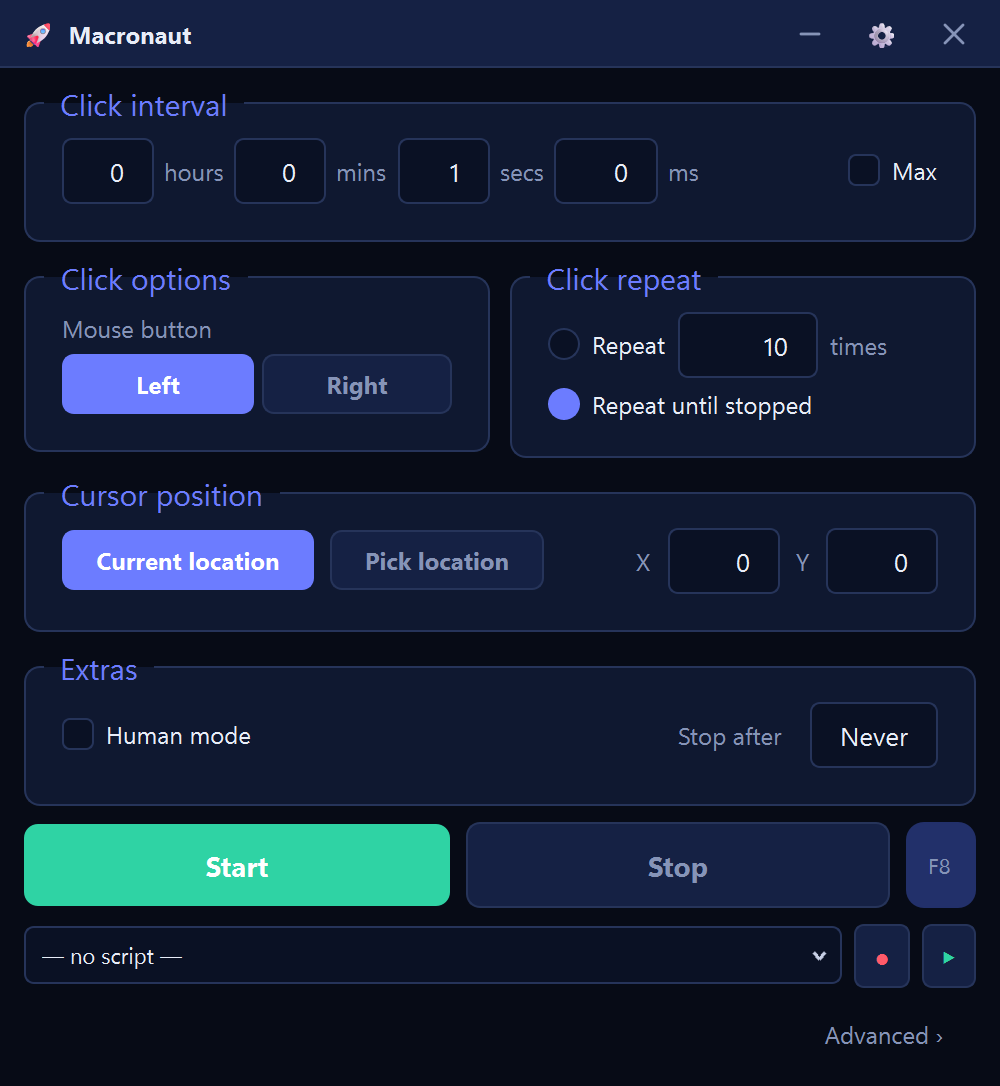
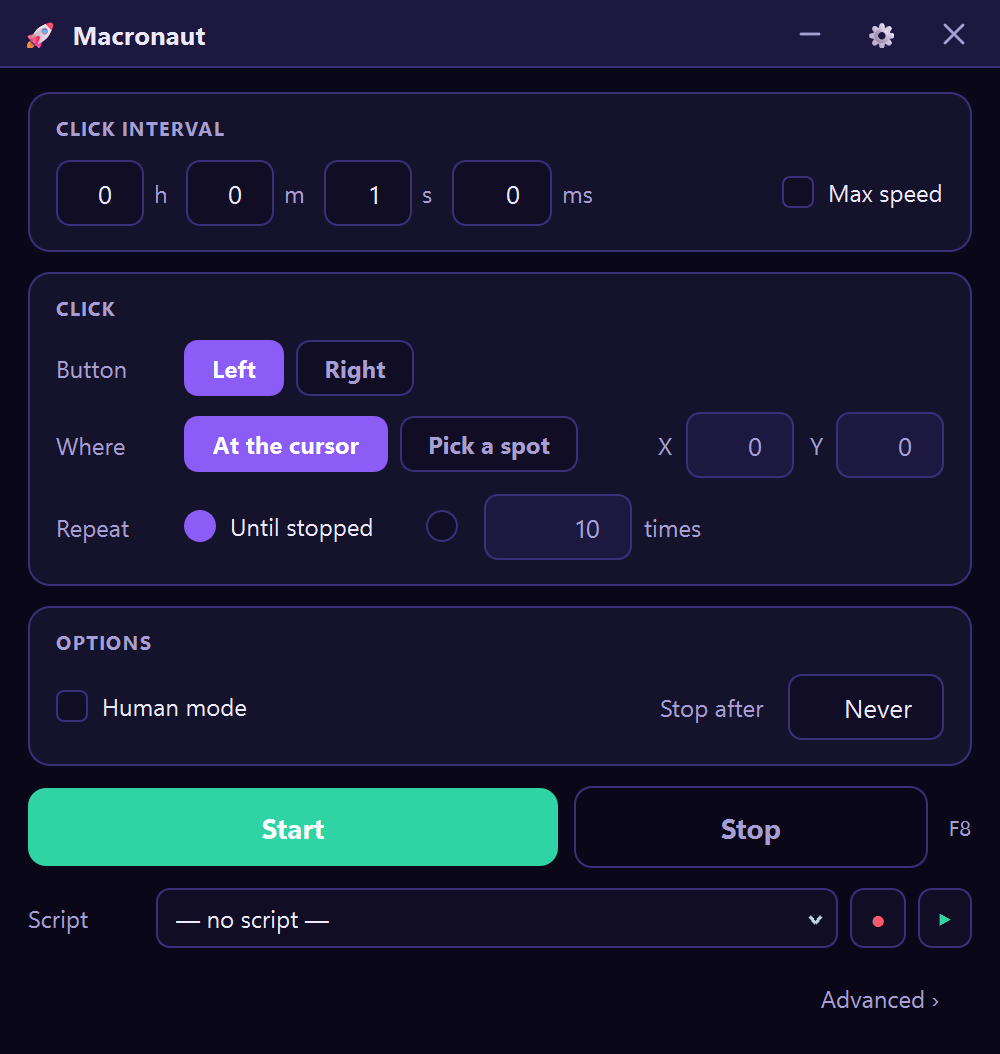
site: rebuild for 2.3.2

diff --git a/index.html b/index.html
@@ -6,7 +6,7 @@
 <title>Macronaut — Auto Clicker &amp; Macro Recorder for Windows</title>
 <meta name="description" content="Free auto clicker and visual macro recorder for Windows 10 and 11. Record clicks and keystrokes, or build a flow that watches the screen and decides what to do. The AutoHotkey alternative without the code.">
 <link rel="canonical" href="https://gtjevptje.github.io/Macronaut/">
-<meta name="theme-color" content="#070b16">
+<meta name="theme-color" content="#0a0818">
 
 <meta property="og:type" content="website">
 <meta property="og:site_name" content="Macronaut">
@@ -23,7 +23,7 @@
   "name": "Macronaut",
   "applicationCategory": "UtilitiesApplication",
   "operatingSystem": "Windows 10, Windows 11",
-  "softwareVersion": "2.3.1",
+  "softwareVersion": "2.3.2",
   "url": "https://gtjevptje.github.io/Macronaut/",
   "downloadUrl": "https://github.com/gtjevptje/Macronaut/releases/latest/download/Macronaut.exe",
   "description": "Auto clicker and visual macro recorder for Windows. Records clicks and keystrokes into an editable flow, and can watch the screen to decide what to do next.",
@@ -43,9 +43,9 @@
 
 <style>
 :root{
-  --bg:#070b16; --panel:#0f1830; --panel2:#152144; --hover:#1c2950;
-  --border:#26345a; --text:#e8edf8; --muted:#8694b8;
-  --accent:#6c7cff; --accent-hover:#8a96ff; --green:#2fd3a4; --amber:#f5b14b;
+  --bg:#0a0818; --panel:#15122c; --panel2:#1d1840; --hover:#272052;
+  --border:#3a2f7a; --text:#ece9fb; --muted:#a79fd4;
+  --accent:#8b5cf6; --accent-hover:#a279f8; --green:#2fd3a4; --amber:#f5b14b;
   --max:1080px;
 }
 *{box-sizing:border-box}
@@ -60,13 +60,13 @@ body{
 body::before{
   content:""; position:fixed; inset:0; pointer-events:none; z-index:0; opacity:.5;
   background:
-    radial-gradient(1px 1px at 12% 18%, #c9d6ff 50%, transparent 51%),
-    radial-gradient(1px 1px at 68% 9%,  #c9d6ff 50%, transparent 51%),
-    radial-gradient(1px 1px at 34% 42%, #9fb2e8 50%, transparent 51%),
-    radial-gradient(1px 1px at 88% 33%, #c9d6ff 50%, transparent 51%),
-    radial-gradient(1px 1px at 52% 66%, #8fa3dd 50%, transparent 51%),
-    radial-gradient(1px 1px at 22% 78%, #c9d6ff 50%, transparent 51%),
-    radial-gradient(1px 1px at 78% 88%, #9fb2e8 50%, transparent 51%);
+    radial-gradient(1px 1px at 12% 18%, #ded6ff 50%, transparent 51%),
+    radial-gradient(1px 1px at 68% 9%,  #ded6ff 50%, transparent 51%),
+    radial-gradient(1px 1px at 34% 42%, #bfa9f0 50%, transparent 51%),
+    radial-gradient(1px 1px at 88% 33%, #ded6ff 50%, transparent 51%),
+    radial-gradient(1px 1px at 52% 66%, #a98fe0 50%, transparent 51%),
+    radial-gradient(1px 1px at 22% 78%, #ded6ff 50%, transparent 51%),
+    radial-gradient(1px 1px at 78% 88%, #bfa9f0 50%, transparent 51%);
 }
 main,header,footer{position:relative; z-index:1}
 .wrap{max-width:var(--max); margin:0 auto; padding:0 24px}
@@ -81,7 +81,7 @@ p{margin:0 0 1em}
 .small{font-size:14px}
 
 /* ── Nav ─────────────────────────────────────────────────────────── */
-header{border-bottom:1px solid var(--border); background:rgba(7,11,22,.85);
+header{border-bottom:1px solid var(--border); background:rgba(10,8,24,.85);
   backdrop-filter:blur(10px); position:sticky; top:0; z-index:20}
 .nav{display:flex; align-items:center; gap:24px; height:62px}
 .brand{font-weight:800; font-size:18px; letter-spacing:-.01em; color:var(--text)}
@@ -177,7 +177,7 @@ section > .wrap > h2{text-align:center}
 .plan{background:var(--panel); border:1px solid var(--border); border-radius:18px;
   padding:30px}
 .plan.best{border-color:var(--accent); box-shadow:0 0 0 1px var(--accent),
-  0 20px 60px rgba(108,124,255,.14)}
+  0 20px 60px rgba(139,92,246,.16)}
 .plan .name{font-size:14px; font-weight:800; letter-spacing:.08em;
   text-transform:uppercase; color:var(--muted)}
 .plan.best .name{color:var(--accent-hover)}
@@ -307,7 +307,7 @@ footer .row nav{margin-left:auto; display:flex; gap:20px; flex-wrap:wrap}
           the window it is clicking, Advanced as big as you like.</p>
         </div>
         <img class="shot shot-inline" src="assets/basic.png"
-             width="1000" height="1086" loading="lazy"
+             width="1000" height="1054" loading="lazy"
              alt="Macronaut's Basic face: click interval in hours, minutes,
                   seconds and milliseconds, a left/right mouse button choice,
                   repeat a set number of times or until stopped, cursor position,
@@ -433,7 +433,7 @@ footer .row nav{margin-left:auto; display:flex; gap:20px; flex-wrap:wrap}
 
 <footer>
   <div class="wrap row">
-    <div>Macronaut 2.3.1 · © 2026 Gerben van Poucke ·
+    <div>Macronaut 2.3.2 · © 2026 Gerben van Poucke ·
       <a href="mailto:gerbenvanpoucke0@gmail.com">gerbenvanpoucke0@gmail.com</a></div>
     <nav>
       <a href="https://github.com/gtjevptje/Macronaut">GitHub</a>

diff --git a/autohotkey-alternative.html b/autohotkey-alternative.html
@@ -6,7 +6,7 @@
 <title>An AutoHotkey alternative you don't have to write code in — Macronaut</title>
 <meta name="description" content="AutoHotkey is a scripting language. Macronaut does the same job by recording what you do, or by letting you draw the flow. An honest comparison, including what AutoHotkey still does better.">
 <link rel="canonical" href="https://gtjevptje.github.io/Macronaut/autohotkey-alternative.html">
-<meta name="theme-color" content="#070b16">
+<meta name="theme-color" content="#0a0818">
 
 <meta property="og:type" content="article">
 <meta property="og:site_name" content="Macronaut">
@@ -18,9 +18,9 @@
 
 <style>
 :root{
-  --bg:#070b16; --panel:#0f1830; --panel2:#152144; --hover:#1c2950;
-  --border:#26345a; --text:#e8edf8; --muted:#8694b8;
-  --accent:#6c7cff; --accent-hover:#8a96ff; --green:#2fd3a4; --amber:#f5b14b;
+  --bg:#0a0818; --panel:#15122c; --panel2:#1d1840; --hover:#272052;
+  --border:#3a2f7a; --text:#ece9fb; --muted:#a79fd4;
+  --accent:#8b5cf6; --accent-hover:#a279f8; --green:#2fd3a4; --amber:#f5b14b;
   --max:1080px;
 }
 *{box-sizing:border-box}
@@ -35,13 +35,13 @@ body{
 body::before{
   content:""; position:fixed; inset:0; pointer-events:none; z-index:0; opacity:.5;
   background:
-    radial-gradient(1px 1px at 12% 18%, #c9d6ff 50%, transparent 51%),
-    radial-gradient(1px 1px at 68% 9%,  #c9d6ff 50%, transparent 51%),
-    radial-gradient(1px 1px at 34% 42%, #9fb2e8 50%, transparent 51%),
-    radial-gradient(1px 1px at 88% 33%, #c9d6ff 50%, transparent 51%),
-    radial-gradient(1px 1px at 52% 66%, #8fa3dd 50%, transparent 51%),
-    radial-gradient(1px 1px at 22% 78%, #c9d6ff 50%, transparent 51%),
-    radial-gradient(1px 1px at 78% 88%, #9fb2e8 50%, transparent 51%);
+    radial-gradient(1px 1px at 12% 18%, #ded6ff 50%, transparent 51%),
+    radial-gradient(1px 1px at 68% 9%,  #ded6ff 50%, transparent 51%),
+    radial-gradient(1px 1px at 34% 42%, #bfa9f0 50%, transparent 51%),
+    radial-gradient(1px 1px at 88% 33%, #ded6ff 50%, transparent 51%),
+    radial-gradient(1px 1px at 52% 66%, #a98fe0 50%, transparent 51%),
+    radial-gradient(1px 1px at 22% 78%, #ded6ff 50%, transparent 51%),
+    radial-gradient(1px 1px at 78% 88%, #bfa9f0 50%, transparent 51%);
 }
 main,header,footer{position:relative; z-index:1}
 .wrap{max-width:var(--max); margin:0 auto; padding:0 24px}
@@ -56,7 +56,7 @@ p{margin:0 0 1em}
 .small{font-size:14px}
 
 /* ── Nav ─────────────────────────────────────────────────────────── */
-header{border-bottom:1px solid var(--border); background:rgba(7,11,22,.85);
+header{border-bottom:1px solid var(--border); background:rgba(10,8,24,.85);
   backdrop-filter:blur(10px); position:sticky; top:0; z-index:20}
 .nav{display:flex; align-items:center; gap:24px; height:62px}
 .brand{font-weight:800; font-size:18px; letter-spacing:-.01em; color:var(--text)}
@@ -152,7 +152,7 @@ section > .wrap > h2{text-align:center}
 .plan{background:var(--panel); border:1px solid var(--border); border-radius:18px;
   padding:30px}
 .plan.best{border-color:var(--accent); box-shadow:0 0 0 1px var(--accent),
-  0 20px 60px rgba(108,124,255,.14)}
+  0 20px 60px rgba(139,92,246,.16)}
 .plan .name{font-size:14px; font-weight:800; letter-spacing:.08em;
   text-transform:uppercase; color:var(--muted)}
 .plan.best .name{color:var(--accent-hover)}
@@ -351,7 +351,7 @@ DoClick() {
 
 <footer>
   <div class="wrap row">
-    <div>Macronaut 2.3.1 · © 2026 Gerben van Poucke ·
+    <div>Macronaut 2.3.2 · © 2026 Gerben van Poucke ·
       <a href="mailto:gerbenvanpoucke0@gmail.com">gerbenvanpoucke0@gmail.com</a></div>
     <nav>
       <a href="https://gtjevptje.github.io/Macronaut/">Home</a>
